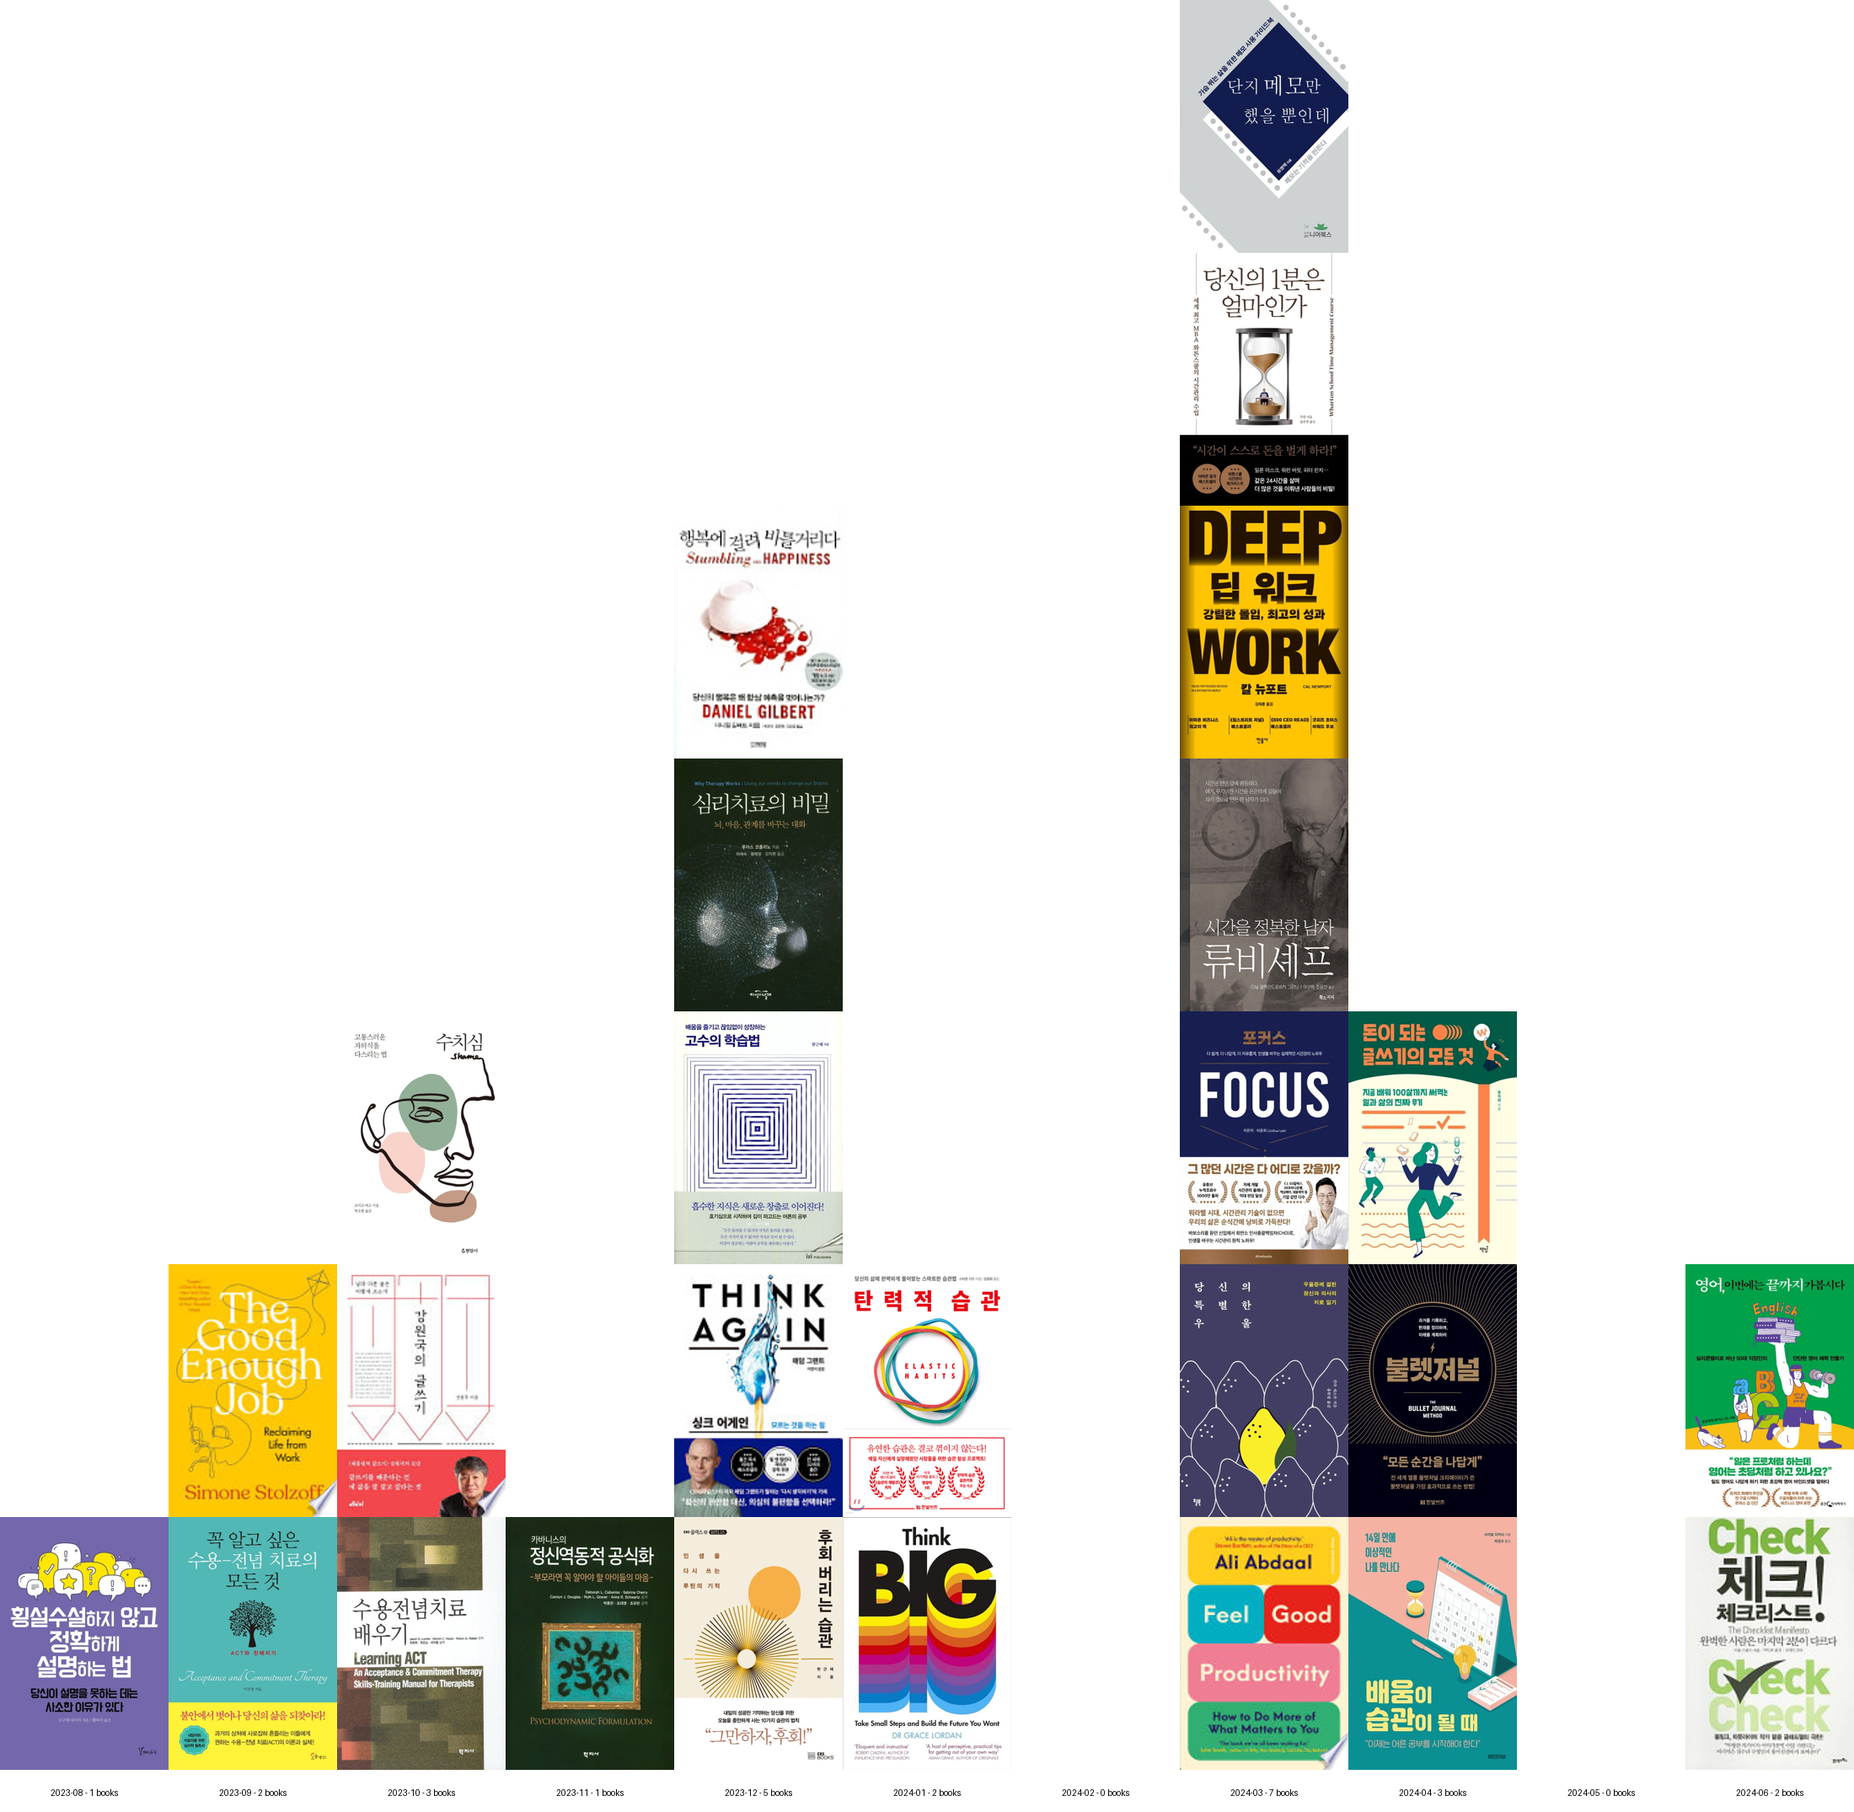
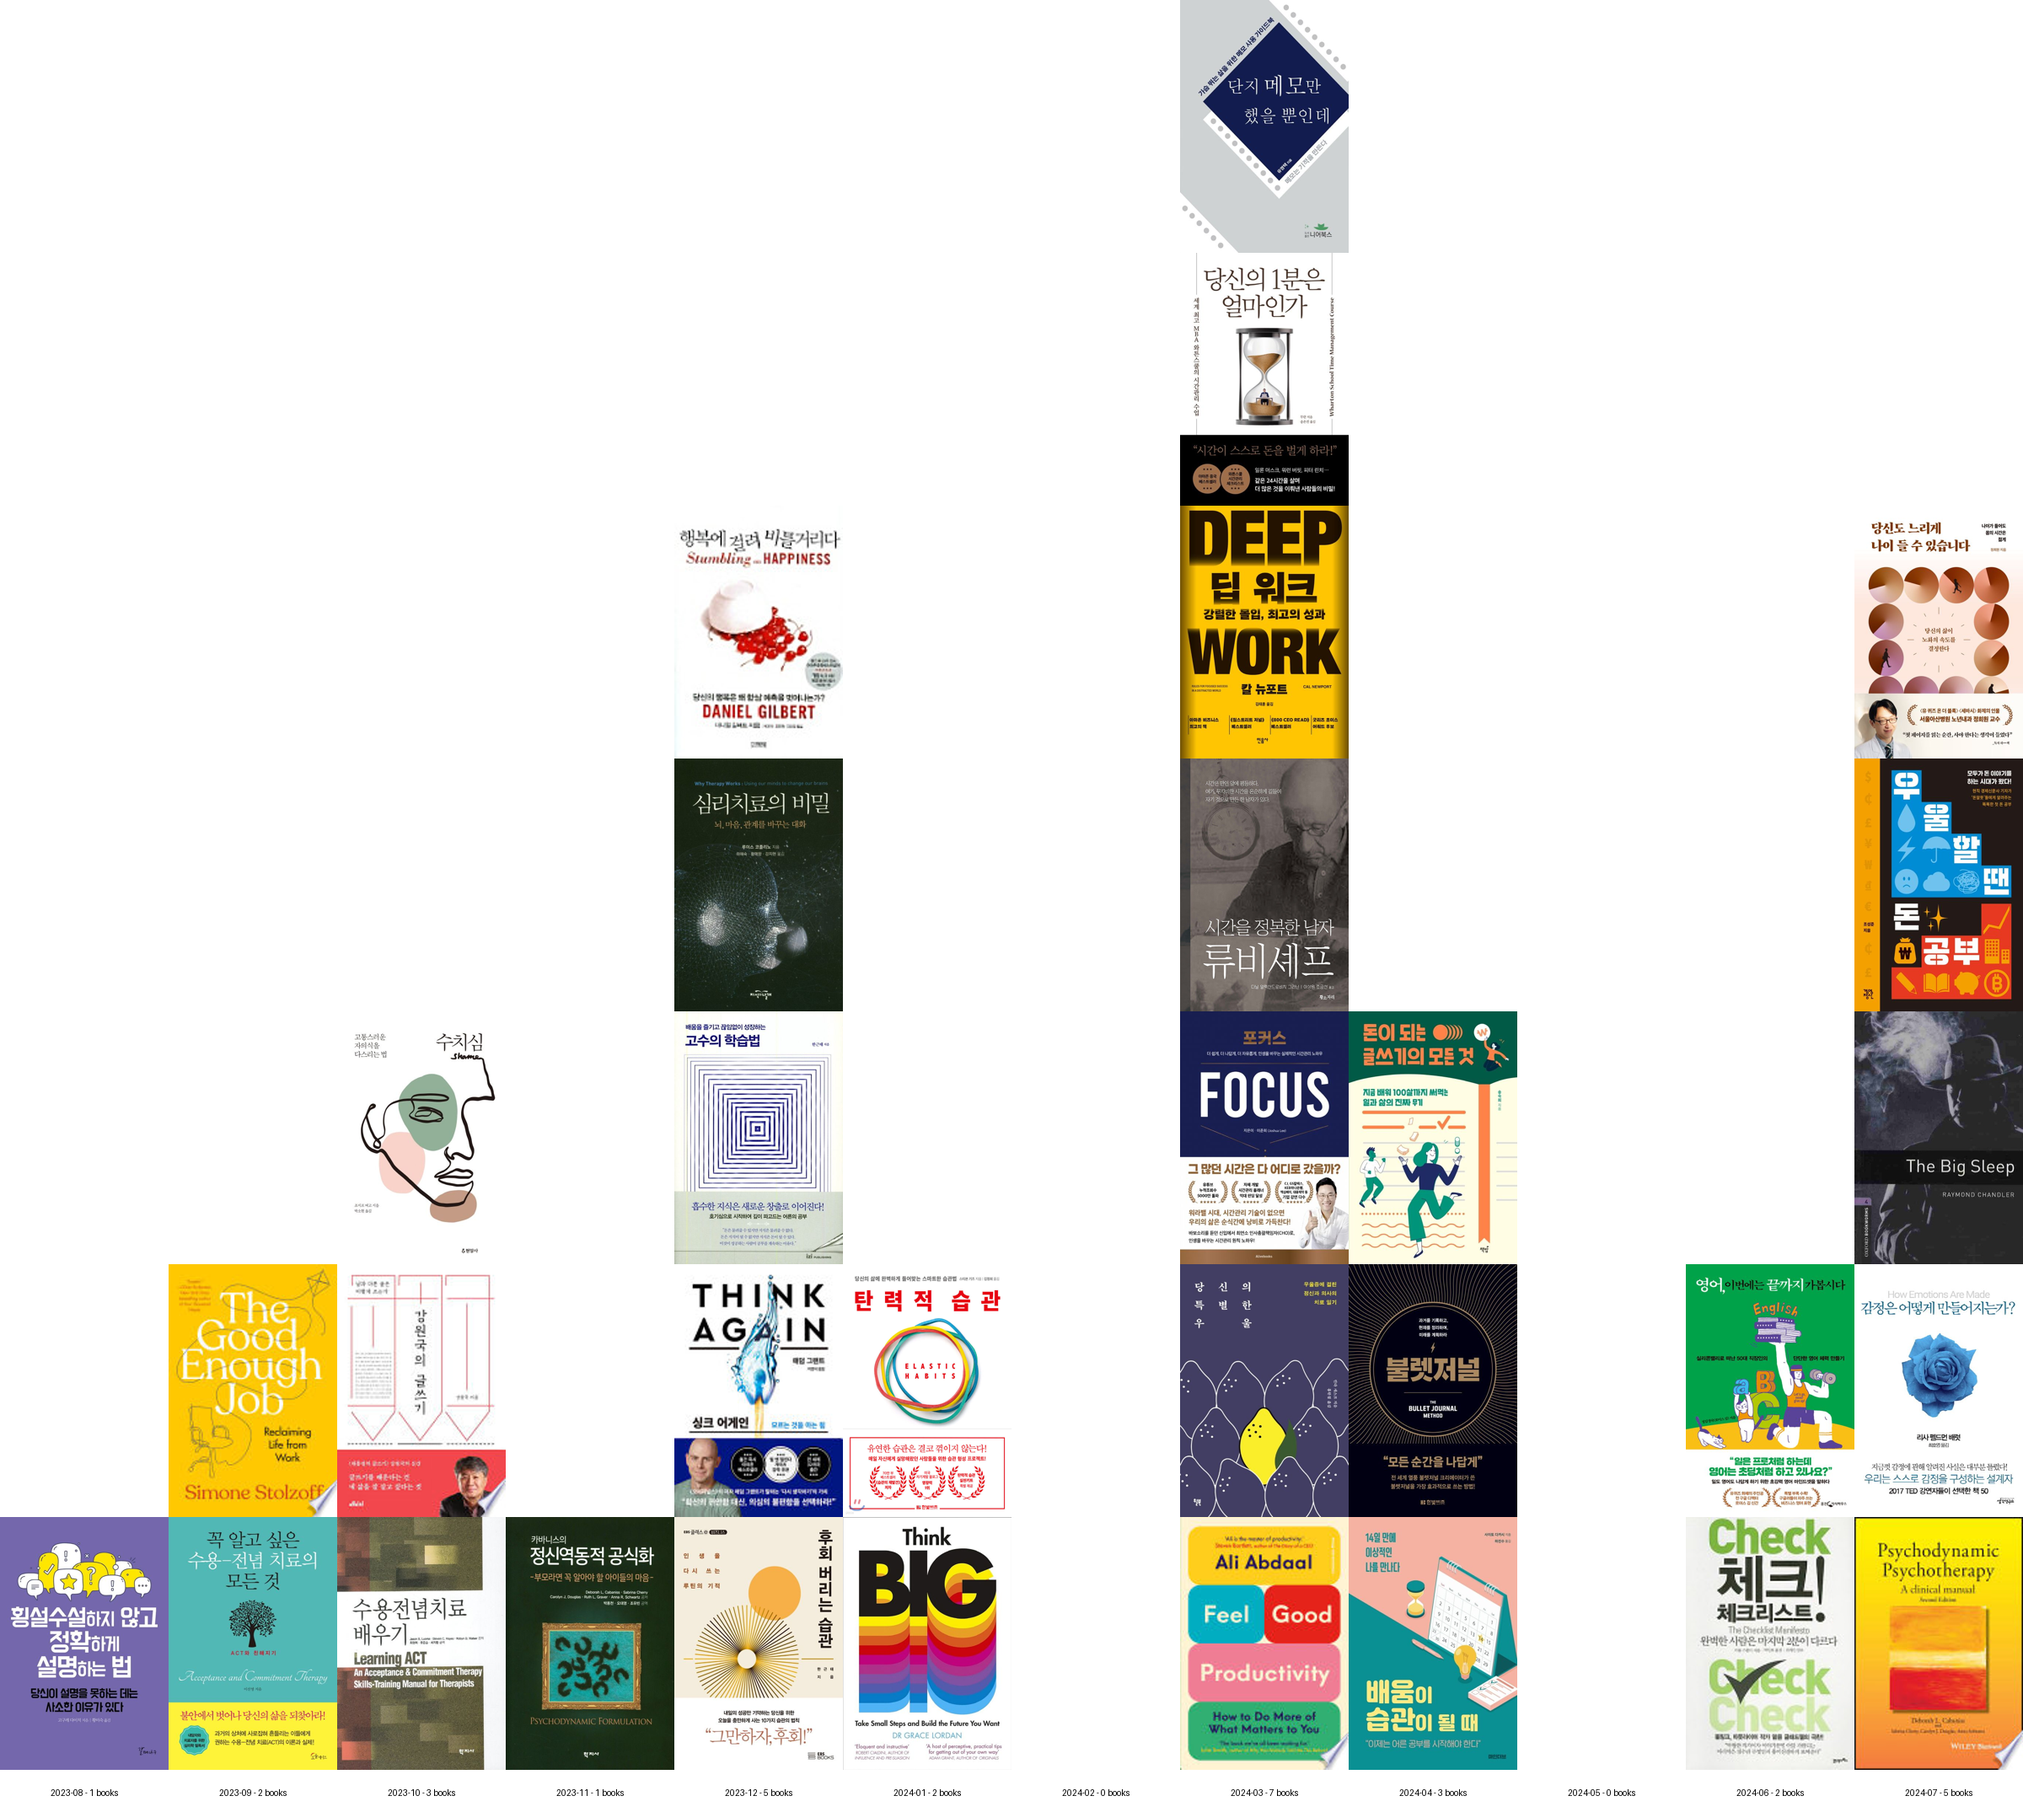
new-feature complete

Changed region(s): [[0.0, 0.0, 1.0, 0.9972]]

diff --git a/book_stat.py b/book_stat.py
@@ -5,6 +5,7 @@ from io import BytesIO
 import matplotlib.pyplot as plt
 import os
 from collections import OrderedDict
+from dateutil.relativedelta import relativedelta
 import pytz
 
 # 다운로드 폴더 경로 설정
@@ -30,7 +31,7 @@ df['end'] = pd.to_datetime(df['end'], utc=True).dt.tz_convert('Asia/Seoul')
 # 날짜 범위 설정 (2023년 8월부터 현재까지)
 seoul_tz = pytz.timezone('Asia/Seoul')
 start_date = pd.Timestamp(year=2023, month=8, day=1, tz=seoul_tz)
-end_date = pd.Timestamp.now(tz=seoul_tz)
+end_date = pd.Timestamp.now(tz=seoul_tz) + relativedelta(months=1)
 date_range = pd.date_range(start_date, end_date, freq='M', tz=seoul_tz)
 
 # 월별 데이터 정리 (최신 순으로 정렬)
